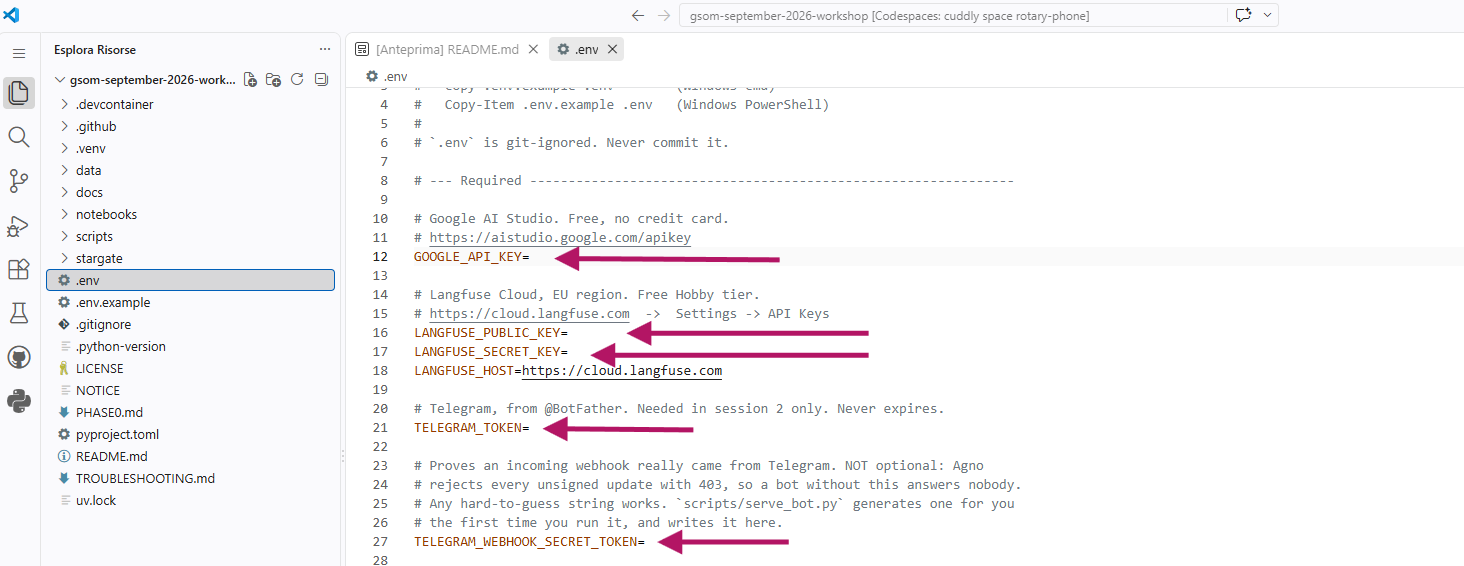
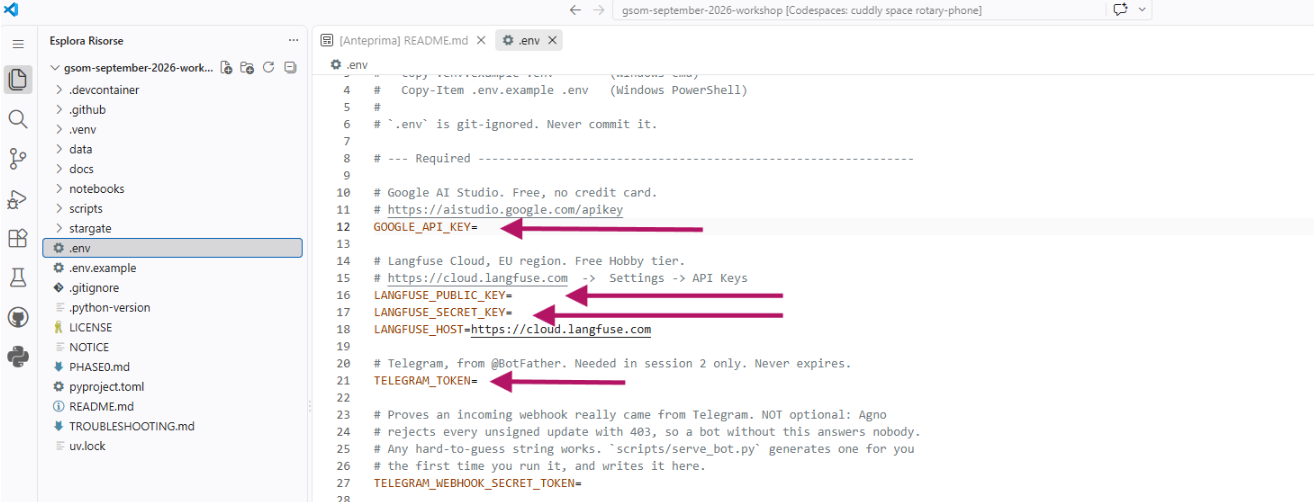
Mark only the four lines you fill in by hand
The screenshot pointed at TELEGRAM_WEBHOOK_SECRET_TOKEN too, which the
text right underneath told you to leave empty. Four values, four arrows.

diff --git a/PHASE0.md b/PHASE0.md
@@ -322,10 +322,10 @@ Copy-Item .env.example .env # Windows PowerShell
 ```
 
 Paste in the four values from steps [1](#1-get-a-google-ai-studio-key),
-[2](#2-get-a-langfuse-account) and [3](#3-get-a-telegram-bot-token). The arrows
-below point at the lines that take one:
+[2](#2-get-a-langfuse-account) and [3](#3-get-a-telegram-bot-token). One arrow
+each, in the order you collected them:
 
-![The .env file open in the editor, with arrows on the GOOGLE_API_KEY, LANGFUSE_PUBLIC_KEY, LANGFUSE_SECRET_KEY, TELEGRAM_TOKEN and TELEGRAM_WEBHOOK_SECRET_TOKEN lines](img/Fill-in-keys.png)
+![The .env file open in the editor, with arrows on the GOOGLE_API_KEY, LANGFUSE_PUBLIC_KEY, LANGFUSE_SECRET_KEY and TELEGRAM_TOKEN lines](img/Fill-in-keys.png)
 
 Each value goes immediately after the `=` on its own line, with no spaces
 around it and no quotation marks — `GOOGLE_API_KEY=AIza...` and nothing else.
@@ -335,9 +335,9 @@ saved.
 `.env` is git-ignored, so your keys never leave your machine — and never end up
 in a commit.
 
-The last arrow, `TELEGRAM_WEBHOOK_SECRET_TOKEN`, and the `TELEGRAM_ALLOWED_*`
-line below it can stay empty for now. Notebook 07 fills them in when it needs
-them.
+The lines with no arrow stay as they are. `LANGFUSE_HOST` is already filled
+in, and the two below it — `TELEGRAM_WEBHOOK_SECRET_TOKEN` and
+`TELEGRAM_ALLOWED_CHAT_IDS` — stay empty until session 2 fills them in.
 
 ## 5. Run the check
 
